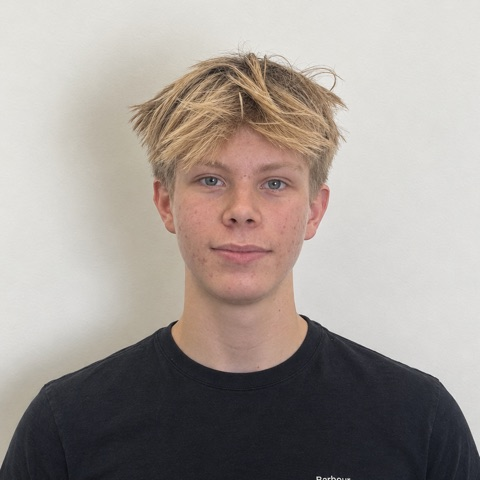
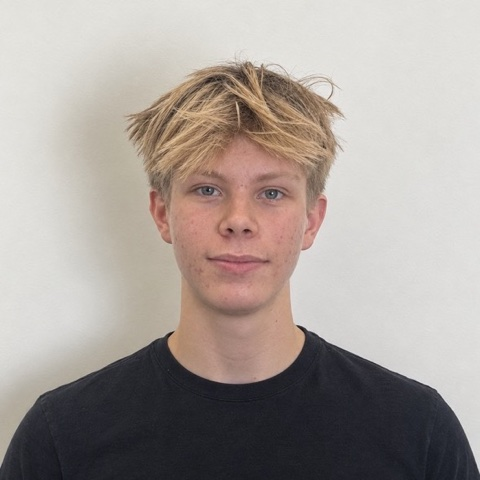
Website: aligned team portraits, contact page with tinted page intro

diff --git a/src/app/(site)/kontakt/page.tsx b/src/app/(site)/kontakt/page.tsx
@@ -1,6 +1,6 @@
 import type { Metadata } from "next";
 import { ContactForm } from "@/features/site/contact-form";
-import { Container } from "@/features/site/section";
+import { PageIntro, Section } from "@/features/site/section";
 import { company } from "@/features/site/site-nav";
 
 export const metadata: Metadata = {
@@ -11,31 +11,30 @@ export const metadata: Metadata = {
 
 export default function ContactPage() {
   return (
-    <Container className="py-12 md:py-20">
-      {/* Phones: intro, form, details. Desktop: intro and details left, form right. */}
-      <div className="grid gap-10 lg:grid-cols-[1fr_1.4fr] lg:grid-rows-[auto_1fr] lg:gap-x-20">
-        <div className="lg:col-start-1">
-          <h1 className="font-display text-hero font-bold">Kontakt</h1>
-          <p className="mt-4 text-lead text-slate">Fragen, Feedback oder Interesse am Pilot? Wir freuen uns auf Ihre Nachricht.</p>
-        </div>
-        <div className="lg:col-start-2 lg:row-span-2 lg:row-start-1">
-          <ContactForm />
-        </div>
-        <dl className="flex flex-col divide-y divide-line self-start border-y border-line lg:col-start-1">
-          <div className="flex flex-col gap-1 py-4">
-            <dt className="text-body text-slate">E-Mail</dt>
-            <dd>
-              <a href={`mailto:${company.email}`} className="font-medium text-blue hover:text-deep-blue hover:underline">
-                {company.email}
-              </a>
-            </dd>
+    <>
+      <PageIntro title="Kontakt" lead="Fragen, Feedback oder Interesse am Pilot? Wir freuen uns auf Ihre Nachricht." />
+      <Section className="md:py-20">
+        {/* Phones: form, then details. Desktop: details left, form right. */}
+        <div className="grid gap-10 lg:grid-cols-[1fr_1.4fr] lg:gap-x-20">
+          <div className="lg:col-start-2 lg:row-start-1">
+            <ContactForm />
           </div>
-          <div className="flex flex-col gap-1 py-4">
-            <dt className="text-body text-slate">Sie haben sich auf eine Wohnung beworben?</dt>
-            <dd>Fragen zu Ihrer Bewerbung oder Besichtigung klären Sie am schnellsten über den Link in Ihrer E-Mail von vizmo.</dd>
-          </div>
-        </dl>
-    </div>
-  </Container>
+          <dl className="flex flex-col divide-y divide-line self-start border-y border-line lg:col-start-1 lg:row-start-1">
+            <div className="flex flex-col gap-1 py-4">
+              <dt className="text-body text-slate">E-Mail</dt>
+              <dd>
+                <a href={`mailto:${company.email}`} className="font-medium text-blue hover:text-deep-blue hover:underline">
+                  {company.email}
+                </a>
+              </dd>
+            </div>
+            <div className="flex flex-col gap-1 py-4">
+              <dt className="text-body text-slate">Sie haben sich auf eine Wohnung beworben?</dt>
+              <dd>Fragen zu Ihrer Bewerbung oder Besichtigung klären Sie am schnellsten über den Link in Ihrer E-Mail von vizmo.</dd>
+            </div>
+          </dl>
+        </div>
+      </Section>
+    </>
   );
 }

diff --git a/src/app/(site)/team/page.tsx b/src/app/(site)/team/page.tsx
@@ -8,7 +8,7 @@ export const metadata: Metadata = {
   description: "Drei Gründerinnen und Gründer aus Osnabrück und ein Ziel: Vermietung ohne Terminchaos. Das Team hinter vizmo.",
 };
 
-// Portraits from the pitch deck; Justus' photo is a square crop with the head centered.
+// Portraits share one framing: eye line at 40 % of the square, eye-to-chin about 21 %, shoulders level.
 const team = [
   {
     name: "Justus Meister",
